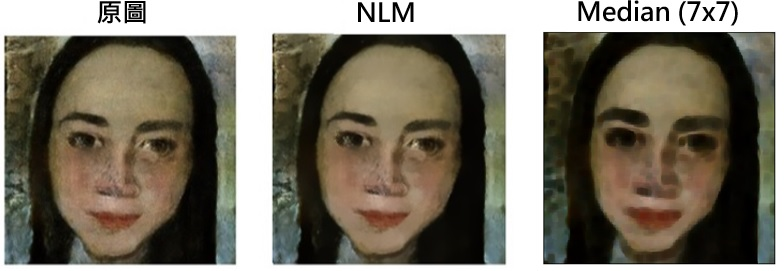
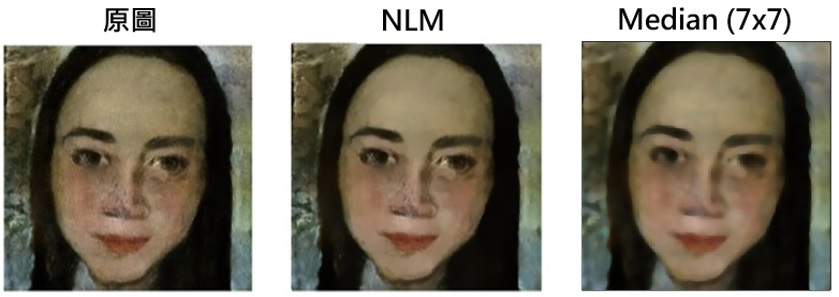
change

diff --git a/Spatial Filter/Median Filter.py b/Spatial Filter/Median Filter.py
@@ -5,10 +5,9 @@ import matplotlib.pyplot as plt
 path = "C:/Users/USER/Desktop/Python/Image Processing/practice/practice pic2.jpg"
 s_image = plt.imread(path)
 
-def median_filter(s_image,f = 5):
+def median_filter(s_image,f = 7):
     ix , iy = np.shape(s_image[:,:,0]) # image size
     new_image = np.zeros([ix,iy,3]) # create new image
-    w_radi = f//2 # window radius
 
     #mirror padding
     def mir_padding(img,f):
@@ -33,7 +32,7 @@ def median_filter(s_image,f = 5):
     def median_kernel(block):
         seq = np.reshape(block,(f**2,3))
         seq = np.sort(seq,axis = 0)
-        mid_point = w_radi
+        mid_point = (f**2)//2
         median = seq[mid_point,:]
         return median
 
@@ -45,7 +44,7 @@ def median_filter(s_image,f = 5):
     
     return new_image
 
-new_image = median_filter(s_image,7)
+new_image = median_filter(s_image)
 new_image = new_image.astype("uint8")
 
 plt.subplot(221)
